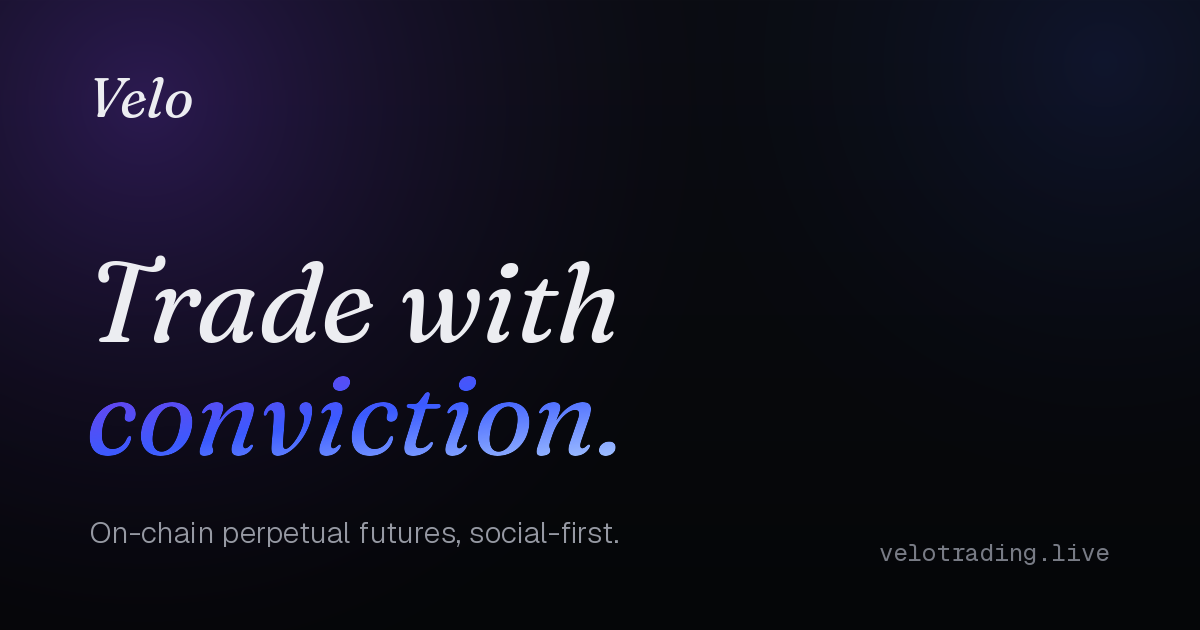
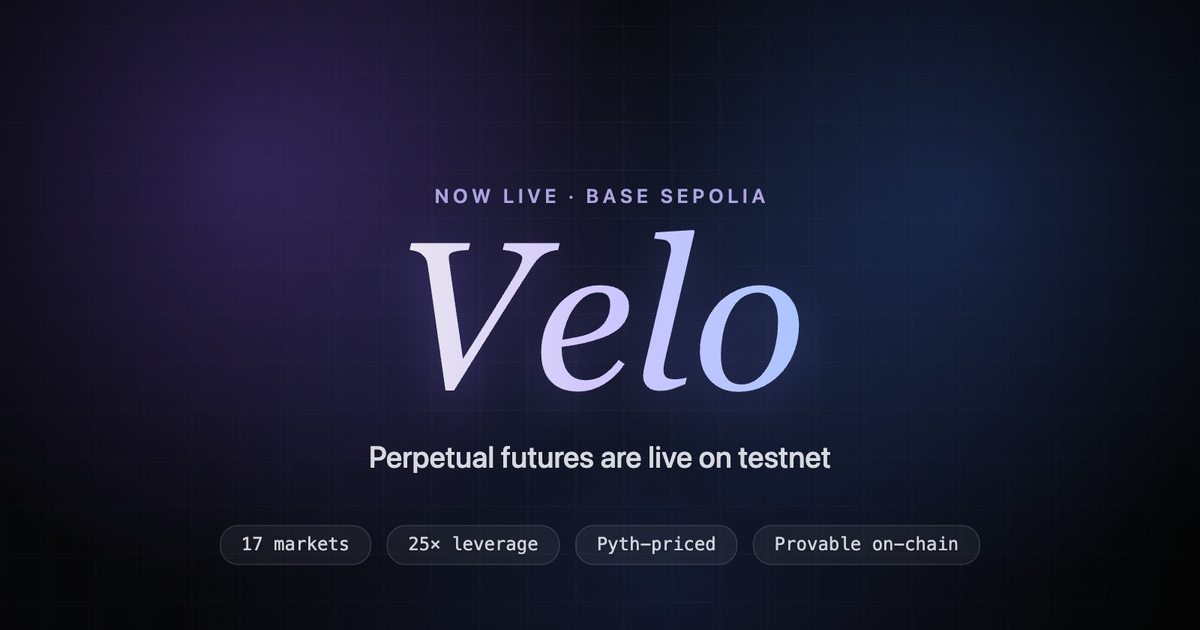
Add files via upload

diff --git a/src/styles/tokens.css b/src/styles/tokens.css
@@ -67,6 +67,9 @@ body.dark,
   --glass-2: rgba(14, 16, 24, 0.86);
   --gl-edge: rgba(255, 255, 255, 0.14);
   --glass-ring: rgba(255, 255, 255, 0.06);
+  /* Nav surface — tinted with the page's own obsidian so the header reads as
+     the SAME colour as the page (just frosted), instead of a lighter glass band. */
+  --nav-bg: color-mix(in oklab, var(--bg) 72%, transparent);
   --chip: rgba(255, 255, 255, 0.05);
   --chip-h: rgba(255, 255, 255, 0.1);
   /* Ambient glow — restrained brand violet/blue blooms. Warmer than a flat
@@ -142,6 +145,7 @@ body.light,
   --glass-2: rgba(252, 251, 255, 0.90);
   --gl-edge: rgba(255, 255, 255, 0.96);
   --glass-ring: rgba(255, 255, 255, 0.5);
+  --nav-bg: color-mix(in oklab, #ffffff 80%, transparent);
   --chip: rgba(20, 22, 30, 0.04);
   --chip-h: rgba(20, 22, 30, 0.08);
   /* Light ambient — gentle violet/blue wash, airy but present. */

diff --git a/src/App.tsx b/src/App.tsx
@@ -1087,7 +1087,7 @@ const Navbar = ({ activeTab, setActiveTab, toggleTheme, theme, handleLogout, use
                 gap: 14,
                 border: '1px solid rgba(255,255,255,0.08)',
                 borderRadius: 18,
-                background: 'var(--glass-bg)',
+                background: 'var(--nav-bg)',
                 backdropFilter: 'blur(44px) saturate(1.9)',
                 WebkitBackdropFilter: 'blur(44px) saturate(1.9)',
                 boxShadow: 'var(--glass-shadow)',

diff --git a/PROJECT_STATUS.md b/PROJECT_STATUS.md
@@ -4,6 +4,29 @@
 
 ---
 
+## Session — SEO/routing, OG images, blog section, navbar blend
+
+**App**
+- **Header now matches the page.** The floating nav pill used `--glass-bg` (frosted *white*),
+  which read as a lighter band over the obsidian page. Added a `--nav-bg` token tinted with the
+  page's own background (`color-mix(in oklab, var(--bg) 72%, transparent)` dark; near-white light)
+  and pointed the navbar at it, so the header reads as the same colour as the page, just frosted.
+- **OG image** set to the branded testnet key-art (`public/og-image.png`, 1200×630). Meta already
+  referenced `app.velotrading.live/og-image.png`.
+- `vite build` ✓.
+
+**Landing** (separate `velo-landing` repo)
+- **Blog moved to a nested, SEO-correct route:** `/article-velo-testnet` → `/blog/velo-is-live-on-base-sepolia`
+  (file under `blog/`). All asset refs made root-absolute so nested routes don't break.
+- **Full SEO pass:** canonical, robots, theme-color, Open Graph + Twitter cards on every page;
+  JSON-LD (Organization + WebSite on home, TechArticle on docs, Blog on the index, BlogPosting +
+  BreadcrumbList on the post). Added `sitemap.xml` and `robots.txt`.
+- **Branded OG image** generated for the landing (`assets/og-image.png`, 1200×630).
+- **"Latest from the blog"** featured-post section added to the homepage under the "Don't trust it.
+  Check it." closer.
+
+---
+
 ## Session — v3.1 follow-ups (warmth + favicon + landing hardening)
 
 - **App colors warmed up.** The v3 ambient was too cold/neutral. Reintroduced restrained
